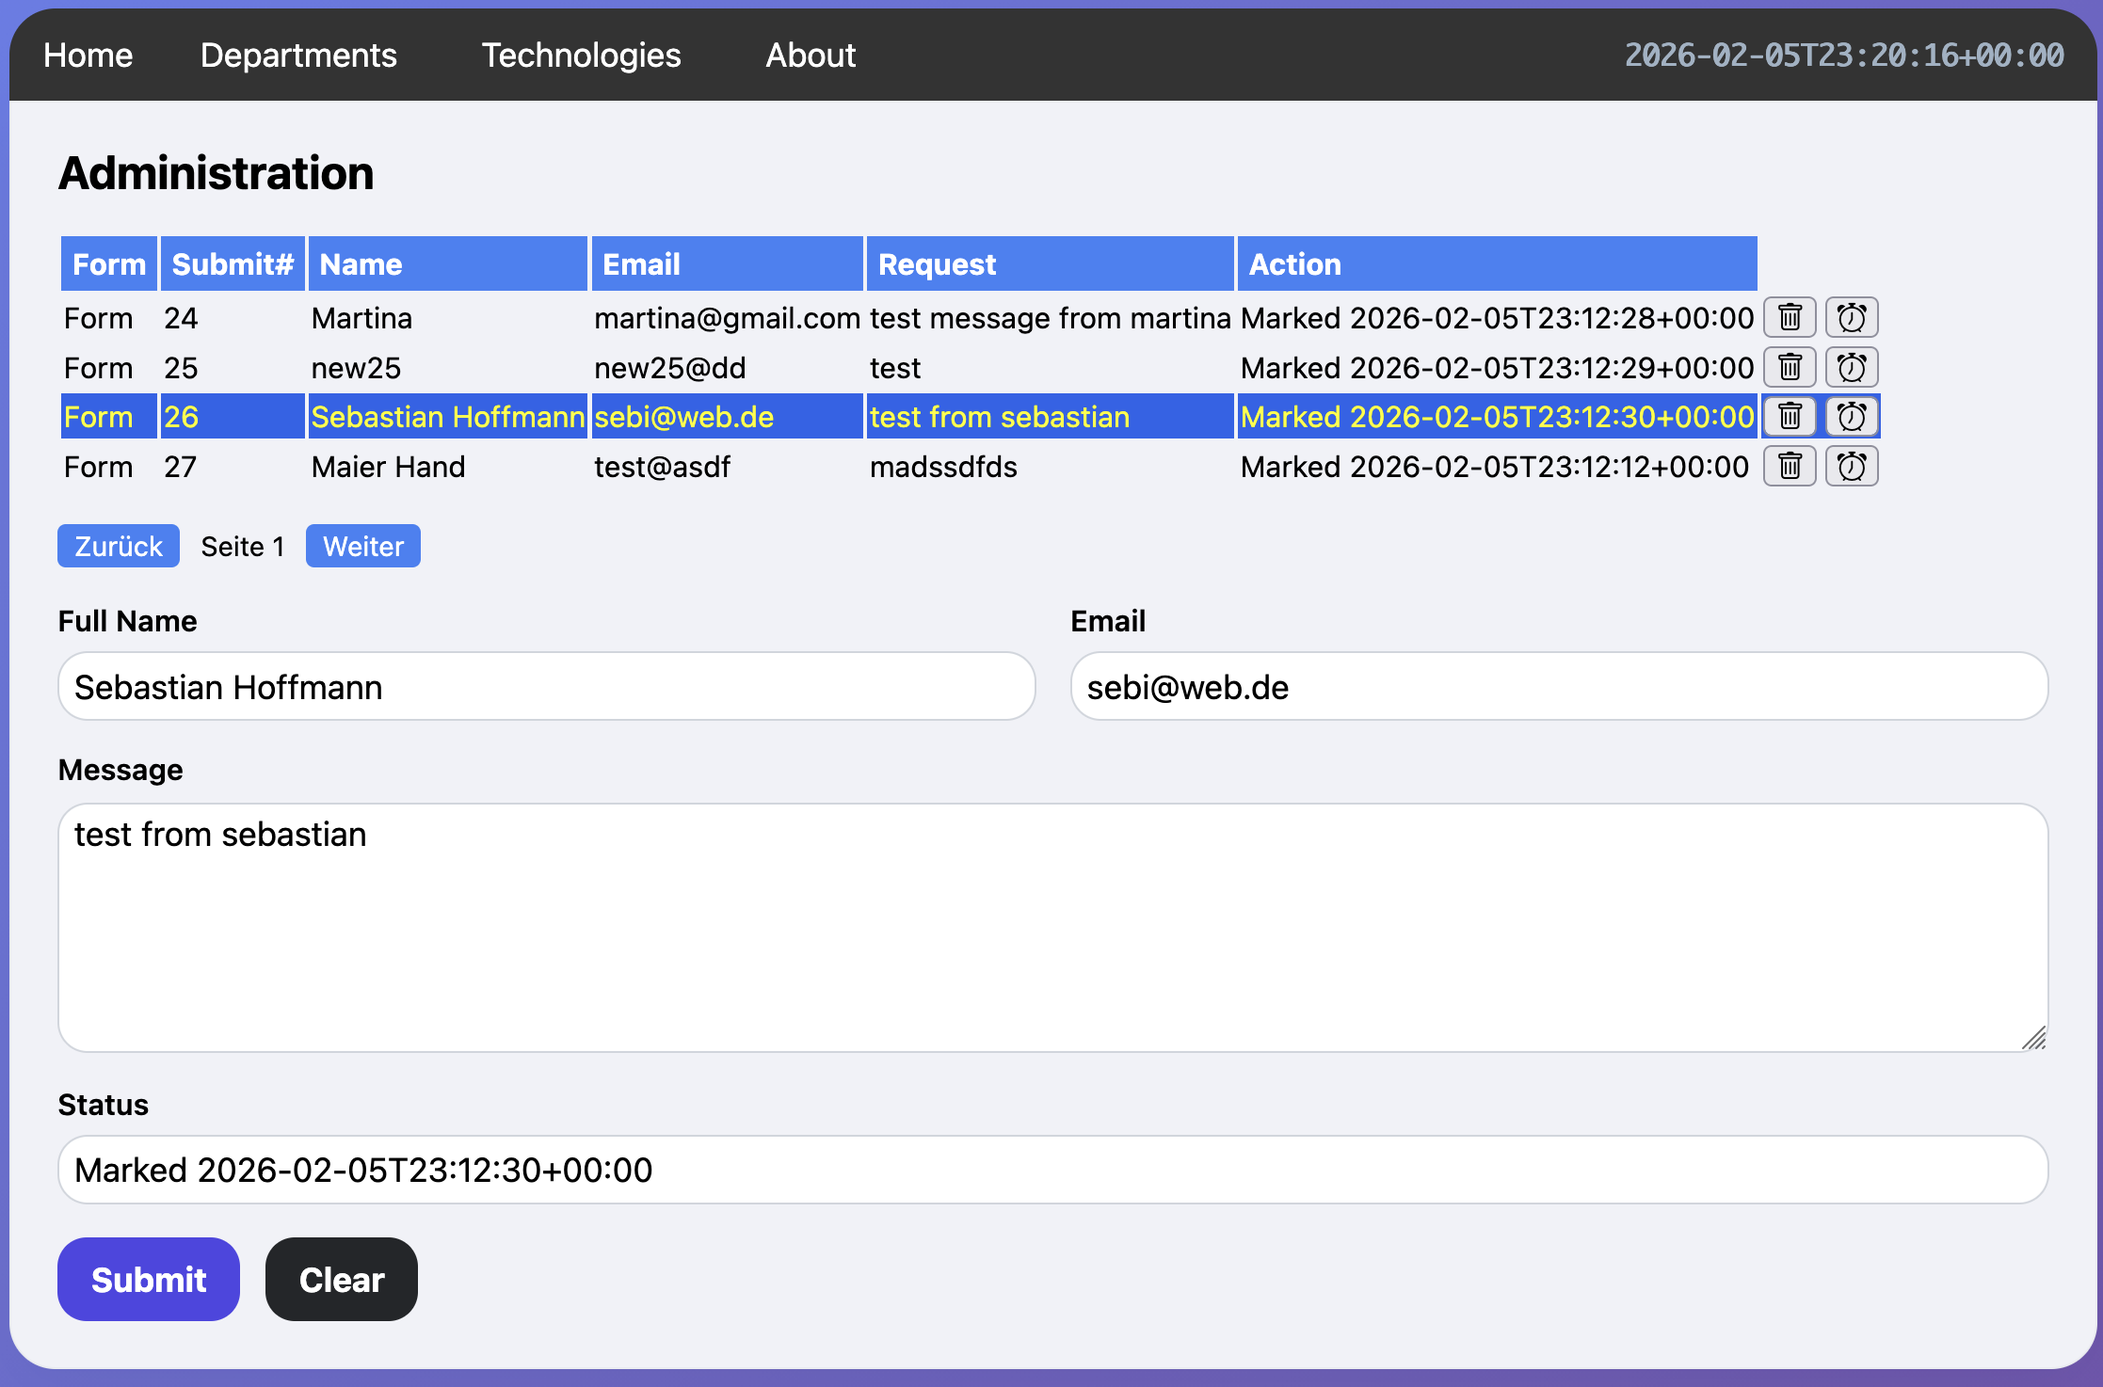
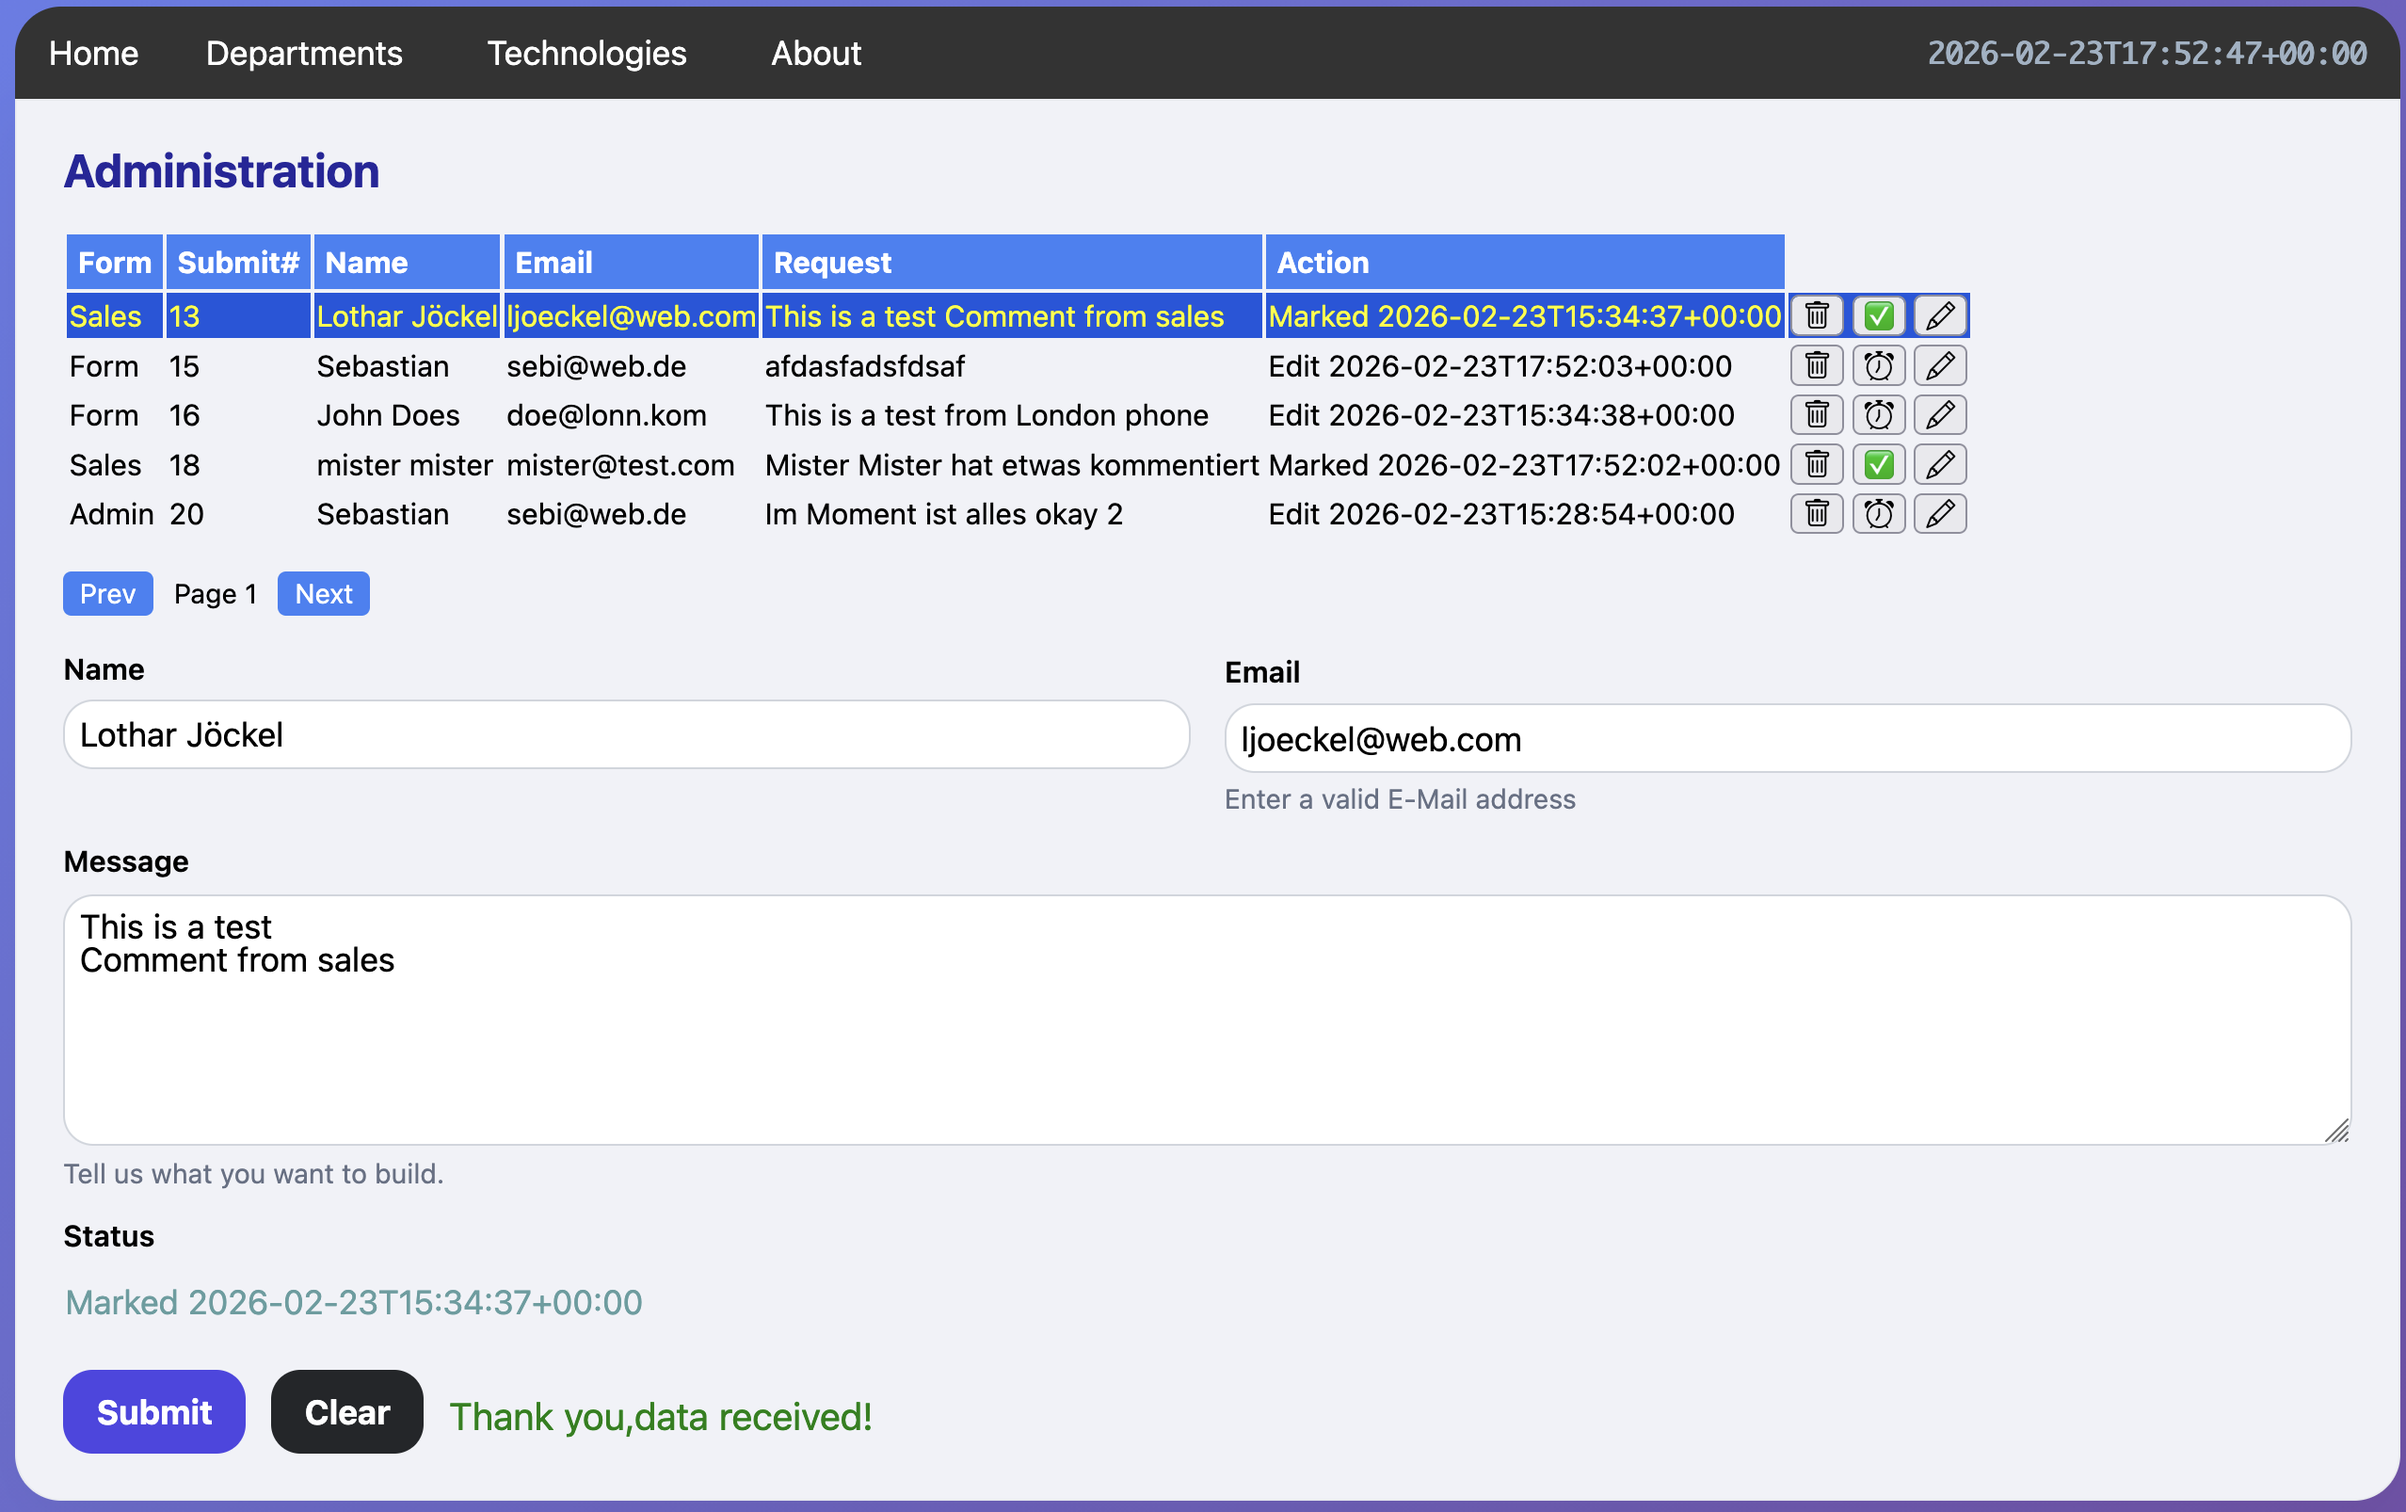
Updated formtx to chain multiple actions

diff --git a/src/datastar/html/index.html b/src/datastar/html/index.html
@@ -27,7 +27,7 @@
                 <a href="#form" data-on:click="$menuOpen = false; @get('/form.html')">Registration</a>
                 <a href="#sales" data-on:click="$menuOpen = false; @get('/salesdiv.html')">Sales</a>
                 <a href="#admin" data-on:click="$menuOpen = false; @get('/admindiv.html')">Administration</a>
-                <a href="#cards" data-on:click="$menuOpen = false; @get('/cardsdiv.html')">Cards</a>
+                <!-- a href="#cards" data-on:click="$menuOpen = false; @get('/cardsdiv.html')">Cards</a-->
             </div>
         </div>
 

diff --git a/src/datastar/html/admindiv.html b/src/datastar/html/admindiv.html
@@ -1,4 +1,4 @@
-<div id="container" class="card" data-signals="{formId: 'Admin', page: 0, maxrows: 5}">
+<div id="container" class="card" data-signals="{formId: 'Admin', page: 1, maxrows: 5}">
     <div class="header">
         <h1>Administration</h1>
     </div>
